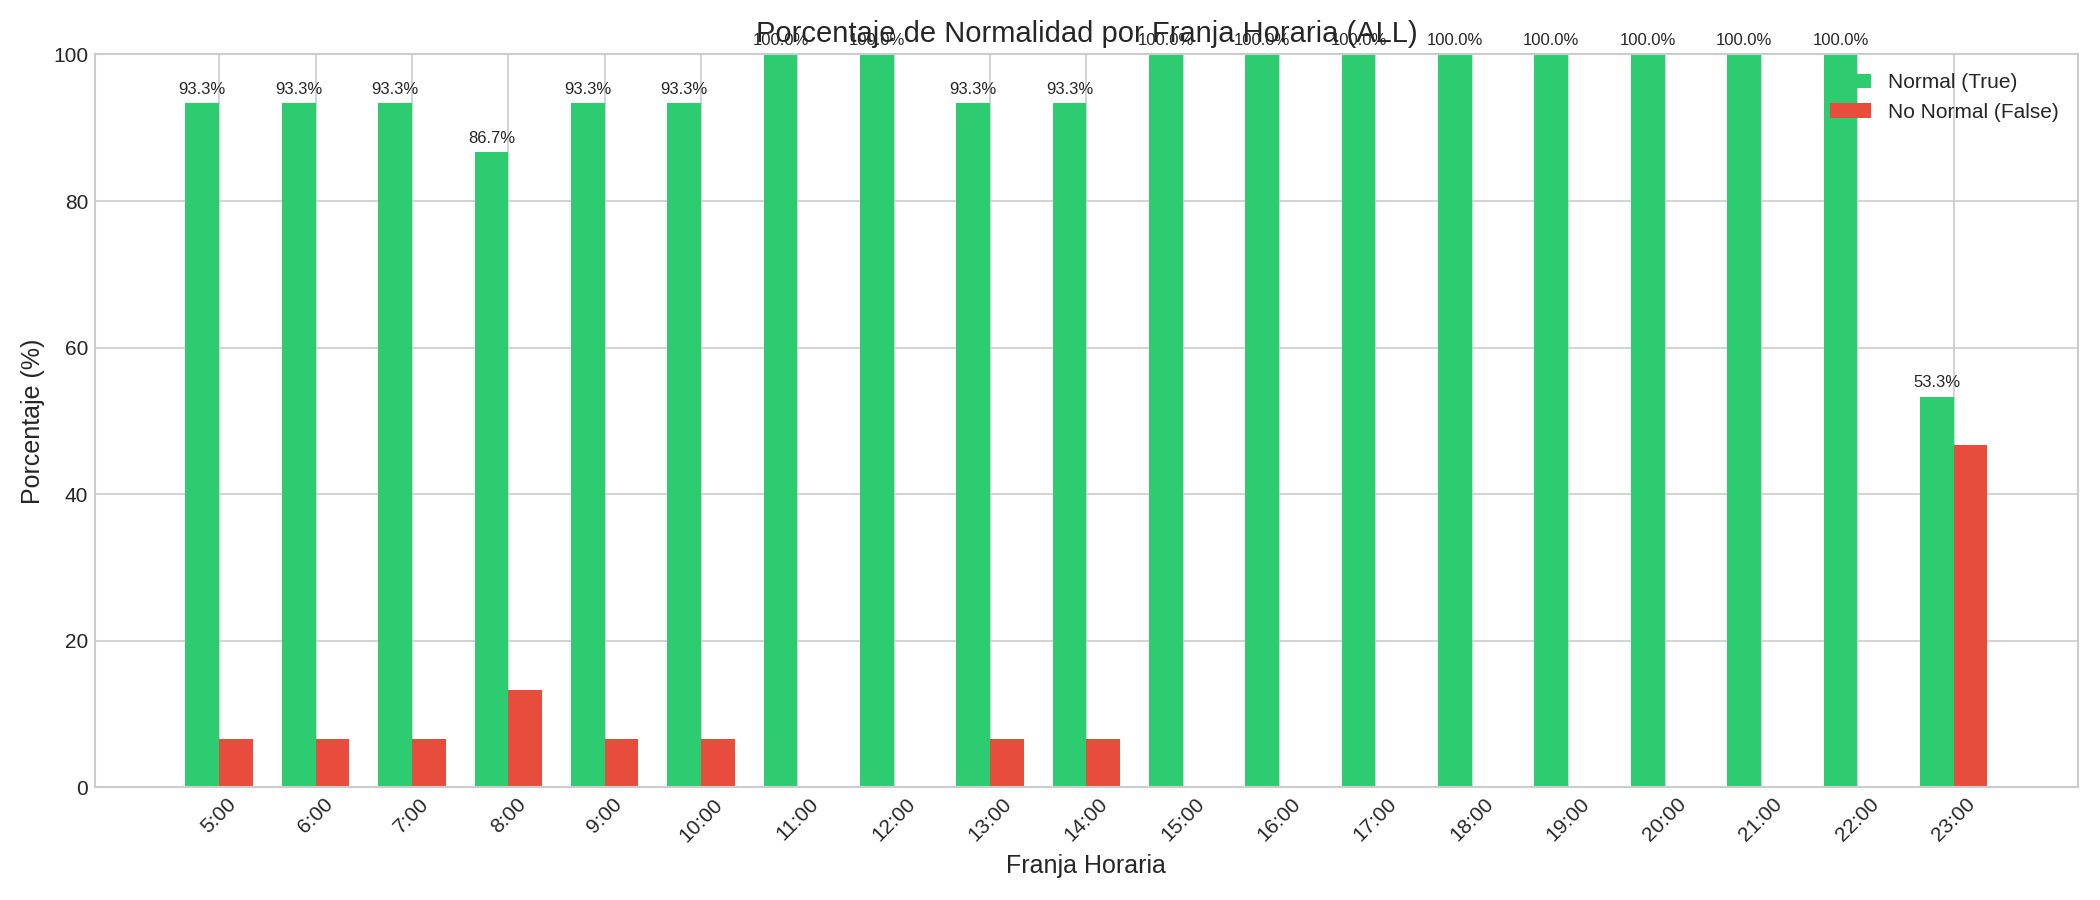
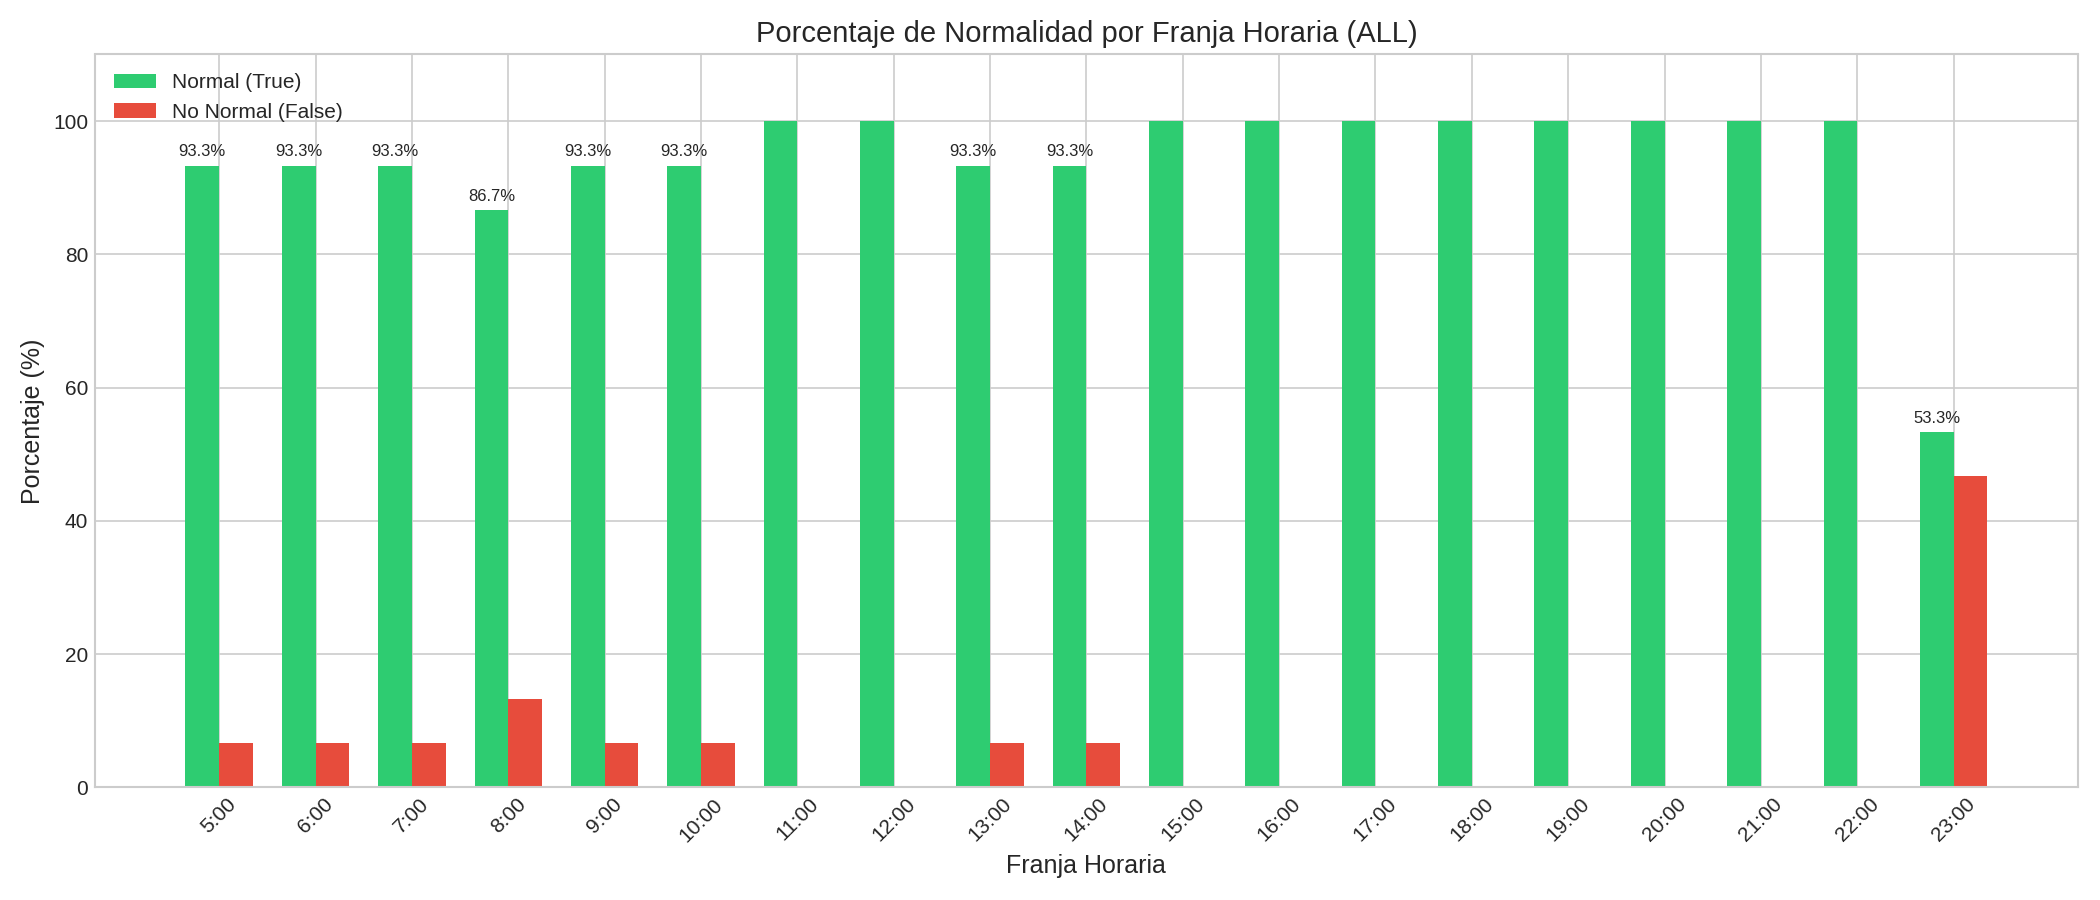
Ultimo cambio

diff --git a/DATOS/src/study_results_per_line.py b/DATOS/src/study_results_per_line.py
@@ -143,13 +143,15 @@ def plot_normality_by_timeslot(dataframe_kpi, title_suffix=""):
     ax.set_xticks(x)
     ax.set_xticklabels([f"{t}:00" for t in dataframe_kpi['Timeslot']], rotation=45)
     ax.legend()
-    ax.set_ylim(0, 100)
+    ax.set_ylim(0, 110)
 
-    # Add value labels on bars
     for bar in bars1:
         height = bar.get_height()
-        ax.annotate(f'{height:.1f}%', xy=(bar.get_x() + bar.get_width()/2, height),
-                    xytext=(0, 3), textcoords="offset points", ha='center', va='bottom', fontsize=8)
+        if height < 100:
+            ax.annotate(f'{height:.1f}%',
+                        xy=(bar.get_x() + bar.get_width()/2, height),
+                        xytext=(0, 3), textcoords="offset points",
+                        ha='center', va='bottom', fontsize=8)
 
     plt.tight_layout()
     return fig
